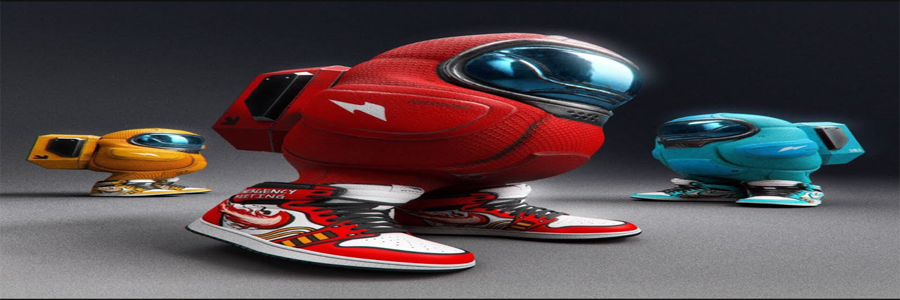
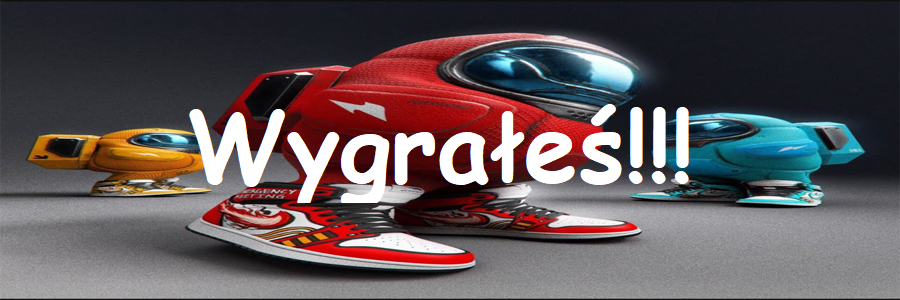
sendit

Changed region(s): [[0.1867, 0.33, 0.7778, 0.69]]

diff --git a/script.js b/script.js
@@ -29,8 +29,8 @@ let vent;
 let isInVents = false;
 let inZone = false;
 let rangeToKill = false;
-let howManyToKill =10;
-let drip=false;
+let howManyToKill = 11;
+let drip = false;
 function create() {
   let back = this.add.tileSprite(0, 0, 6000, 300, "background");
   back.setOrigin(0);
@@ -96,9 +96,9 @@ function create() {
     child.body.setEnable();
     this.physics.add.overlap(player, child, function () {
       if (!isInVents && cursors.space.isDown) {
-            child.destroy();
-            howManyToKill--;
-          }
+        child.destroy();
+        howManyToKill--;
+      }
     });
   });
   vents = this.physics.add.staticGroup();
@@ -115,7 +115,6 @@ function create() {
   });
 }
 function update() {
-  
   if (inZone && cursors.down.isDown) {
     isInVents = true;
   } else if (inZone && cursors.up.isDown) {
@@ -161,12 +160,12 @@ function update() {
       amogus.setScale(1).refreshBody();
     }
   }
-  if(howManyToKill==0 || drip==true){
+  if (howManyToKill == 0 || drip == true) {
     let winned = this.add.tileSprite(0, 0, 900, 300, "win");
     winned.setOrigin(0);
-    player.x=0;
-    player.y=0;
-    drip=true;  
+    player.x = 0;
+    player.y = 0;
+    drip = true;
   }
   inZone = false;
   rangeToKill = false;
